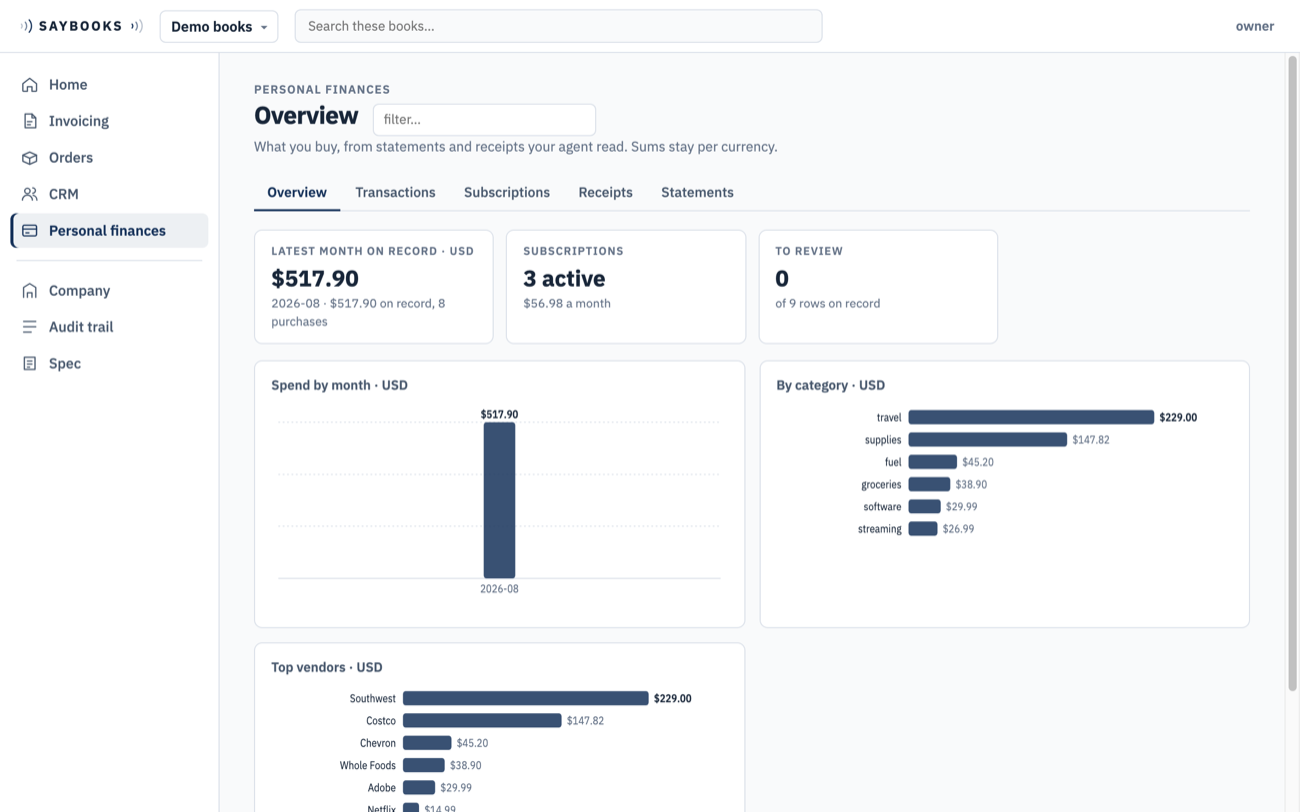
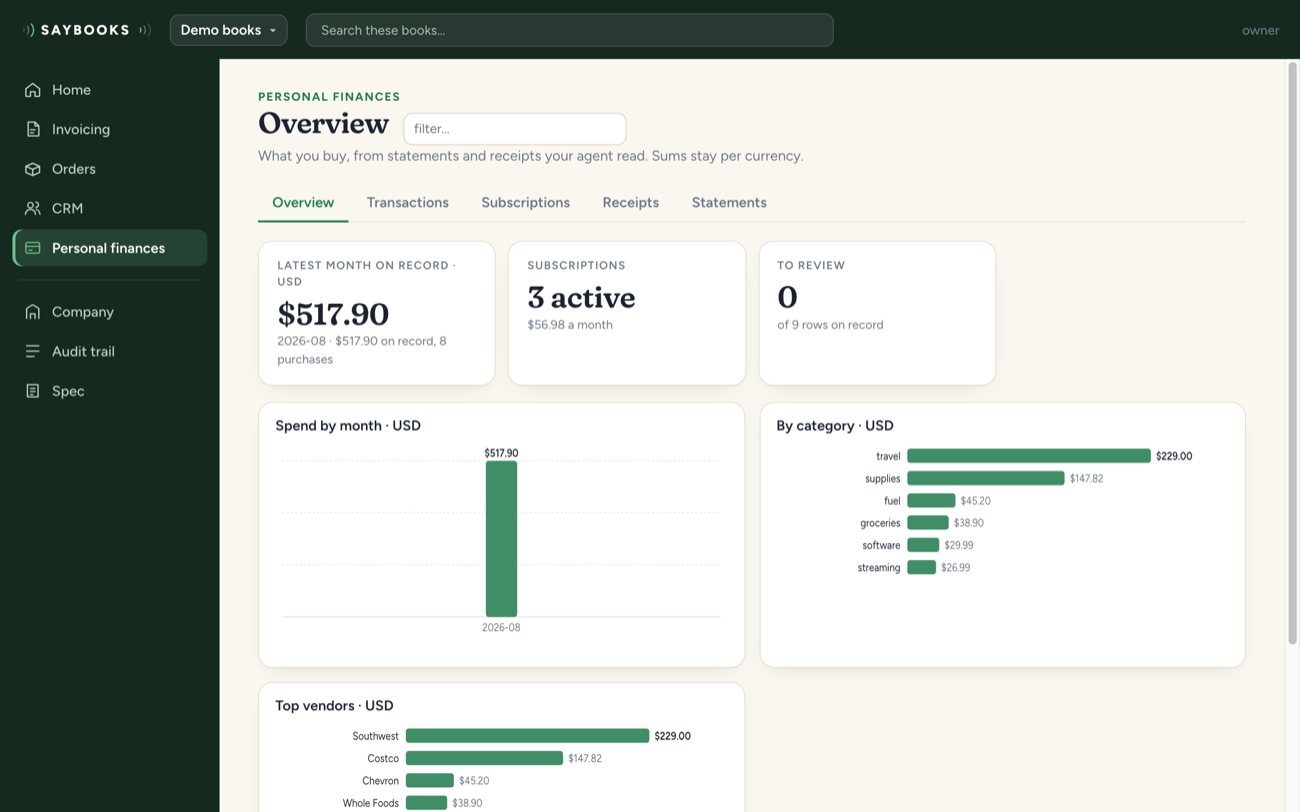
Home page browser window shows the workbench in its new look

diff --git a/ui/landing.html b/ui/landing.html
@@ -147,7 +147,7 @@
     </div>
     <div class="hstage" aria-label="Saybooks on iPhone: the overview of the books, and the model asking before it adds a customer">
       <div class="blob"></div>
-      <div class="win"><div class="bar"><i style="background:#FF5F57"></i><i style="background:#FEBC2E"></i><i style="background:#28C840"></i><span class="url">saybooks.io/app</span></div><img src="/workbench.png" alt="Saybooks in the browser: the personal finances overview of the demo books" width="1300" height="812"></div>
+      <div class="win"><div class="bar"><i style="background:#FF5F57"></i><i style="background:#FEBC2E"></i><i style="background:#28C840"></i><span class="url">saybooks.io/app</span></div><img src="/workbench.png?v=2" alt="Saybooks in the browser: the personal finances overview of the demo books" width="1300" height="812"></div>
       <div class="phone p1"><img src="/phone-overview.png" alt="Saybooks on iPhone: spending this month, money owed, rows to review and subscriptions" width="506" height="1100"></div>
       <div class="phone p2"><img src="/phone-approval.png" alt="Saybooks on iPhone: the model asks to add a new customer, with Decline and Allow" width="506" height="1100"></div>
       <div class="chip"><b>REFUSED</b>Only a draft can be edited; INV-0001 is issued.</div>
